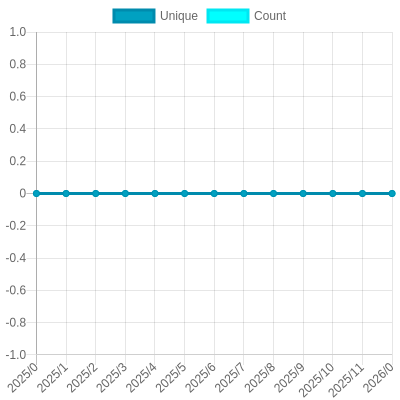
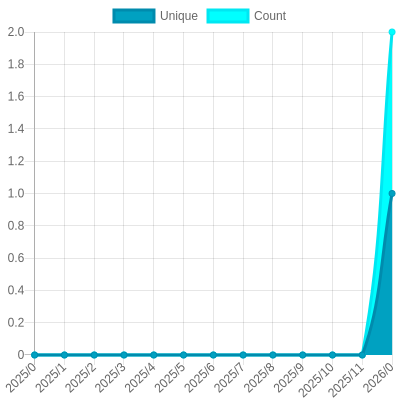
Update views

diff --git a/README.md b/README.md
@@ -26,7 +26,7 @@ The project created and maintained by [gayanvoice](https://github.com/gayanvoice
 			</a>
 		</td>
 		<td>
-			2025/1/21 5:54 PM UTC
+			2025/1/22 5:54 PM UTC
 		</td>
 		<td>
 			0
@@ -42,7 +42,7 @@ The project created and maintained by [gayanvoice](https://github.com/gayanvoice
 			</a>
 		</td>
 		<td>
-			2025/1/21 5:55 PM UTC
+			2025/1/22 5:55 PM UTC
 		</td>
 		<td>
 			0
@@ -53,7 +53,7 @@ The project created and maintained by [gayanvoice](https://github.com/gayanvoice
 	</tr>
 </table>
 
-<small><i>Last updated on 2025/1/24 5:55 PM UTC</i></small>
+<small><i>Last updated on 2025/1/24 6:16 PM UTC</i></small>
 
 ## ✂Copy and 📋 Paste
 ### Total Views Badge

diff --git a/readme/921830105/year.md b/readme/921830105/year.md
@@ -23,10 +23,10 @@
 			<code>2025/1/1</code>
 		</td>
 		<td>
-			<code>0</code>
+			<code>1</code>
 		</td>
 		<td>
-			<code>0</code>
+			<code>2</code>
 		</td>
 	</tr>
 	<tr>
@@ -164,7 +164,7 @@
 </table>
 
 </details>
-<small><i>Last updated on 2025/1/24 5:54 PM UTC</i></small>
+<small><i>Last updated on 2025/1/24 6:16 PM UTC</i></small>
 
 ## ✂Copy and 📋 Paste
 ### SVG Badge

diff --git a/readme/921828714/year.md b/readme/921828714/year.md
@@ -164,7 +164,7 @@
 </table>
 
 </details>
-<small><i>Last updated on 2025/1/24 5:55 PM UTC</i></small>
+<small><i>Last updated on 2025/1/24 6:16 PM UTC</i></small>
 
 ## ✂Copy and 📋 Paste
 ### SVG Badge
